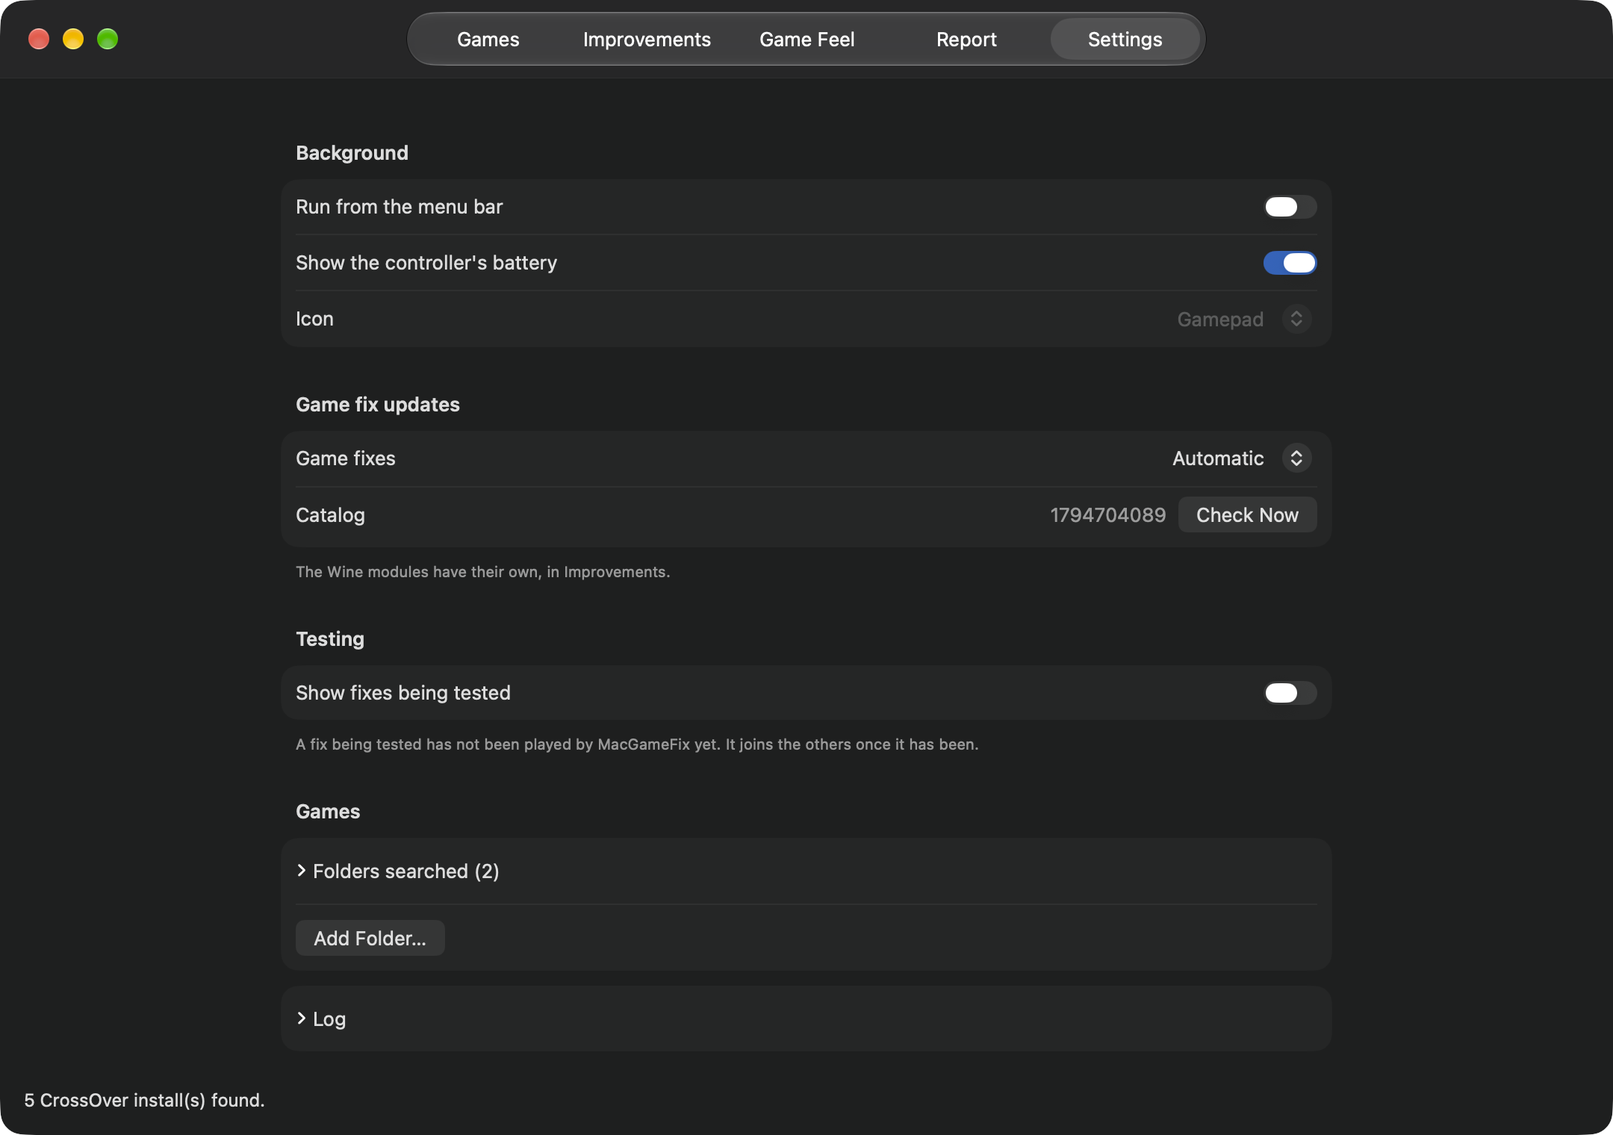
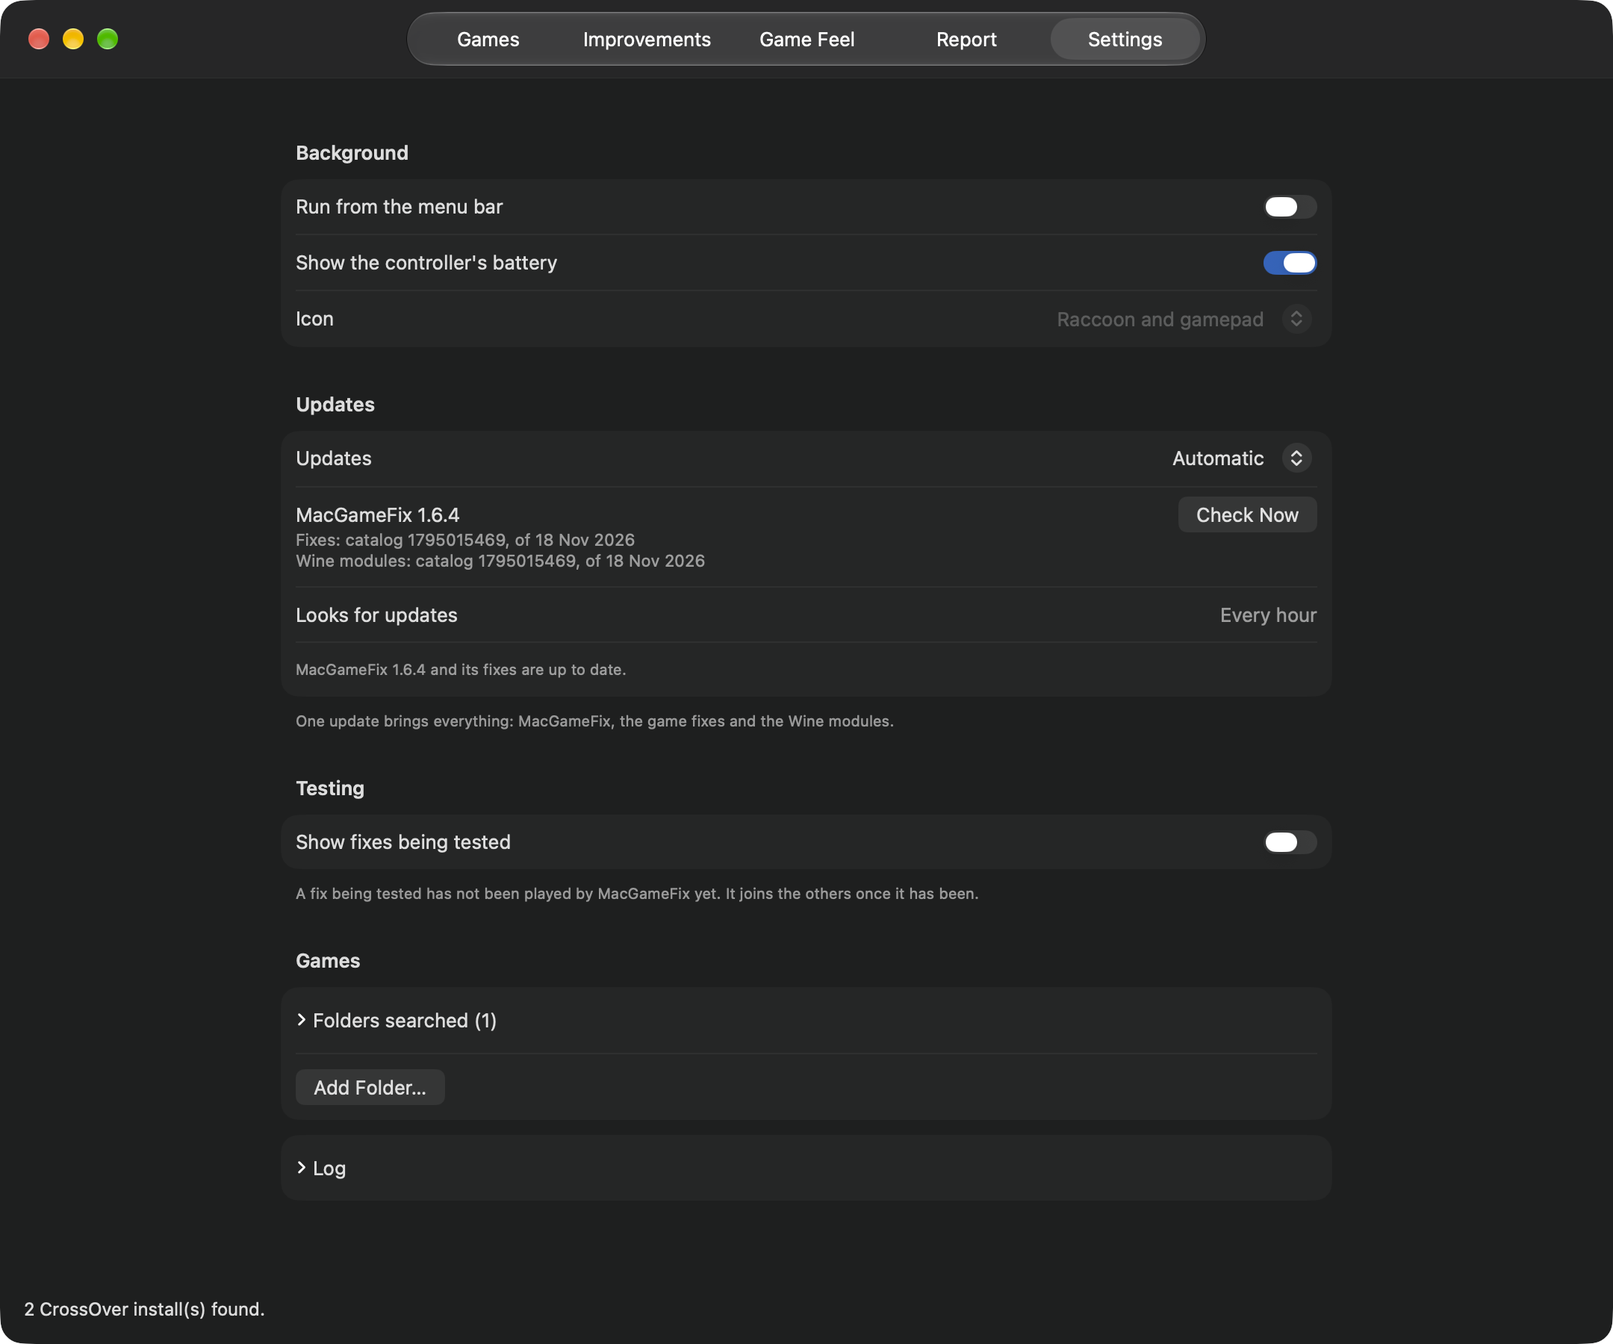
Settings › Updates names each catalog and how often it looks; Relaunch is the app's alone
Settings showed the two catalogs by their day only, and said how often
updates are looked for nowhere but in a tooltip.

- Each catalog in use has its line: "Fixes: catalog <number>, of <day>" and
  the same for the Wine modules. The number is what release notes and
  reports name a catalog by.
- "Looks for updates" says how often: "Every hour", "Never" with the choice
  at Off, and whatever updateMinutes in automatic.json says otherwise. It is
  read there, not chosen.
- The notice's button was decided inside the view. It is UpdateWords.step
  now, with the rule written down: Relaunch only for a new MacGameFix that
  is downloaded and checked with no catalog waiting, and always then; a
  catalog never has it. The behaviour is the one 1.6.4 has.
- Settings' own orange line uses the notice's words, so with a new
  MacGameFix downloaded both say it is ready and waits for Relaunch.
- --updates-report [--downloaded] prints the section's lines and the
  notice's line and button from the same code, for the tests: 14 new checks
  (202 in all). Breaking the rule on purpose (Relaunch with a catalog still
  waiting) fails "with new fixes waiting beside it, Update comes first".

Seen in the window, in copies with a home of their own: new fixes alone show
Update and no Relaunch; a stand-in 9.9.9 downloaded on Automatic shows
Relaunch. docs/images/settings.png is taken again: it still showed the
section as it was before 1.6.4.

diff --git a/app/MacGameFix.swift b/app/MacGameFix.swift
@@ -294,7 +294,7 @@ final class Model: ObservableObject {
     /// choice for the fixes and another for the modules may hold two answers: the more
     /// careful one is taken, so nothing starts arriving that somebody had turned off.
     var updateMode: UpdateMode {
-        if !settings.updates || !settings.modulesUpdates { return .off }
+        if settings.updatesOff { return .off }
         return settings.askFirst || settings.modulesAskFirst ? .ask : .automatic
     }
 
@@ -336,13 +336,21 @@ final class Model: ObservableObject {
             + (waitingModules == nil ? [] : Notes.highlights(waitingModulesNotes))
     }
 
-    /// The catalogs in use, by the day each was made: their versions are that moment.
-    var catalogDates: String {
-        func day(_ version: Int) -> String {
-            Date(timeIntervalSince1970: TimeInterval(version)).formatted(date: .abbreviated, time: .omitted)
-        }
-        return "Fixes of \(day(catalogVersion)), Wine modules of \(day(modulesVersion))"
+    /// The catalogs in use, a line each: its version and the day it was made.
+    var catalogLines: String {
+        "Fixes: \(UpdateWords.catalog(catalogVersion))\nWine modules: \(UpdateWords.catalog(modulesVersion))"
     }
+
+    /// What the notice's button does and what its line says (UpdateWords), for what
+    /// waits now. Settings says the same line.
+    var noticeStep: UpdateWords.Step {
+        UpdateWords.step(catalogsWait: waitingCatalog != nil || waitingModules != nil,
+                         appReady: appReady != nil, appCannot: appCannot != nil)
+    }
+    var noticeLine: String { UpdateWords.notice(noticeStep, parts: waitingParts, ready: appReady?.version) }
+
+    /// How often anything new is looked for, as Settings says it.
+    var looksEvery: String { updateMode == .off ? "never" : settings.updateWords }
 
     /// Everything at once, when the user asks: every newer catalog is taken, a newer
     /// MacGameFix is looked for, and one this copy can take is downloaded and checked.
@@ -1093,6 +1101,36 @@ struct ContentView: View {
     }
 }
 
+/// What Settings › Updates and the notice above the tabs say, in one place: the
+/// window and --updates-report, which the tests read, have the same words.
+enum UpdateWords {
+    /// A catalog in use: its version, which is the moment it was made, and that day.
+    static func catalog(_ version: Int) -> String {
+        guard version > 0 else { return "no catalog" }
+        let day = Date(timeIntervalSince1970: TimeInterval(version)).formatted(date: .abbreviated, time: .omitted)
+        return "catalog \(version), of \(day)"
+    }
+
+    /// What the notice's one button does. Relaunch belongs to a new MacGameFix alone:
+    /// it shows once that app is downloaded and checked and no catalog waits, and it
+    /// always shows then. New fixes and Wine modules never ask for one: they are in use
+    /// as soon as they are taken. With a catalog waiting beside the app, Update comes
+    /// first and takes it, and Relaunch follows. A new MacGameFix this copy cannot put
+    /// in its own place, with nothing else waiting, has no button but What's New.
+    enum Step: String { case relaunch = "Relaunch", update = "Update", nothing = "none" }
+
+    static func step(catalogsWait: Bool, appReady: Bool, appCannot: Bool) -> Step {
+        if appReady && !catalogsWait { return .relaunch }
+        return catalogsWait || !appCannot ? .update : .nothing
+    }
+
+    /// The notice's line: `parts` is what waits, `ready` the downloaded app's version.
+    static func notice(_ step: Step, parts: [String], ready: String?) -> String {
+        if step == .relaunch, let ready { return "MacGameFix \(ready) is ready. Relaunch to finish updating." }
+        return "An update is available: \(parts.joined(separator: ", "))."
+    }
+}
+
 /// What waits for the user, above every tab, as one update with one button: a newer
 /// MacGameFix, and the catalogs the agent was told to ask about first. On Automatic
 /// the catalogs are in place by the time anybody looks, and only a new MacGameFix
@@ -1101,31 +1139,32 @@ struct UpdateBanner: View {
     @ObservedObject var model: Model
 
     var body: some View {
-        let appOnly = model.waitingCatalog == nil && model.waitingModules == nil
+        let step = model.noticeStep
         VStack(alignment: .leading, spacing: 4) {
             HStack(spacing: 8) {
                 Image(systemName: "arrow.down.circle.fill").foregroundStyle(.tint)
                 if model.appWorking, let offer = model.appOffer {
                     ProgressView().controlSize(.small)
                     Text("Downloading MacGameFix \(offer.version)…")
-                } else if appOnly, let ready = model.appReady {
-                    Text("MacGameFix \(ready.version) is ready. Relaunch to finish updating.")
                 } else {
-                    Text("An update is available: \(model.waitingParts.joined(separator: ", ")).")
+                    Text(verbatim: model.noticeLine)
                 }
                 Spacer()
                 if let page = model.appOffer?.page {
                     Button("What's New") { NSWorkspace.shared.open(page) }
                 }
-                if appOnly, model.appReady != nil {
+                switch step {
+                case .relaunch:
                     Button("Relaunch") { model.installAppAndRelaunch() }
                         .buttonStyle(.borderedProminent).disabled(model.busy)
                         .help("Puts the new MacGameFix in this one's place and opens it.")
-                } else if !appOnly || model.appCannot == nil {
+                case .update:
                     Button("Update") { model.updateNow() }
                         .buttonStyle(.borderedProminent).disabled(model.busy || model.appWorking)
                         .help("Takes everything that is new: the game fixes, the Wine modules and MacGameFix itself, "
                               + "which is checked to be signed as this one is and starts when you choose Relaunch.")
+                case .nothing:
+                    EmptyView()
                 }
             }
             ForEach(model.whatsNew.prefix(6), id: \.self) { line in
@@ -2563,7 +2602,7 @@ struct SettingsView: View {
                 Picker("Updates", selection: Binding(get: { model.updateMode }, set: { model.setUpdateMode($0) })) {
                     ForEach(Model.UpdateMode.allCases) { Text($0.label).tag($0) }
                 }
-                .help("MacGameFix, its game fixes and its Wine modules, looked for once an hour. Automatic takes the "
+                .help("MacGameFix, its game fixes and its Wine modules, looked for \(model.settings.updateWords). Automatic takes the "
                       + "fixes and the modules as they come and downloads a new MacGameFix, which starts when you "
                       + "choose Relaunch. “Ask first” tells you, and takes nothing until you choose Update. Off does "
                       + "not look.")
@@ -2572,11 +2611,17 @@ struct SettingsView: View {
                         .help("Looks now, and takes what is new: the fixes, the Wine modules and MacGameFix itself.")
                 } label: {
                     Text(verbatim: "MacGameFix \(Catalog.appVersion)")
-                    Text(model.catalogDates)
+                    Text(verbatim: model.catalogLines)
                 }
+                .help("The MacGameFix that is running and the two catalogs in use. A catalog's version is the moment "
+                      + "it was made: the number a release's notes and a report name it by.")
+                LabeledContent("Looks for updates") {
+                    Text(verbatim: model.looksEvery.prefix(1).uppercased() + model.looksEvery.dropFirst())
+                }
+                .help("How often MacGameFix asks whether anything is new: the app, the fixes and the Wine modules are "
+                      + "asked about together. What is found is taken or told as the choice above says.")
                 if model.hasBanner {
-                    Text("An update is available: \(model.waitingParts.joined(separator: ", ")).")
-                        .font(.caption).foregroundStyle(.orange)
+                    Text(verbatim: model.noticeLine).font(.caption).foregroundStyle(.orange)
                 } else if !model.updateLine.isEmpty {
                     Text(model.updateLine).font(.caption).foregroundStyle(.secondary)
                 }
@@ -2691,6 +2736,7 @@ struct MacGameFixApp: App {
 /// starts and which lives in the menu bar; and, for the tests and the release,
 /// --agent-once, --menu-report, --games-report, --engine-report,
 /// --engine-install, --engine-remove, --update-from, --app-update-check, --app-update,
+/// --updates-report,
 /// --make-catalog, --new-signing-key, and the reports' --probe-report, --fix-report,
 /// --fix-works-url and --works-without-url, which do one thing and exit.
 @main
@@ -2720,6 +2766,41 @@ enum Entry {
             }
             if let version = state.waitingApp { print("app | Update to MacGameFix \(version)…") }
             exit(0)
+        }
+        if args.contains("--updates-report") {
+            // What Settings › Updates shows, and what the notice above the tabs says and
+            // offers for what waits. With --downloaded a newer MacGameFix is downloaded and
+            // checked first, as Update does and as Automatic has done by the time anybody
+            // looks; nothing is put in this app's place.
+            let downloaded = args.contains("--downloaded")
+            wait {
+                let settings = AutoSettings.load(), state = AgentState.load()
+                print("app | MacGameFix \(Catalog.appVersion)")
+                print("fixes | \(UpdateWords.catalog(Catalog.active().manifest?.version ?? 0))")
+                print("modules | \(UpdateWords.catalog(Catalog.active(.modules).manifest?.version ?? 0))")
+                print("looks | \(settings.updatesOff ? "never" : settings.updateWords)")
+                let offer = settings.appUpdates ? try? await AppUpdate.check() : nil
+                let cannot = AppUpdate.whyNot()
+                var ready: String?
+                if downloaded, let offer, cannot == nil {
+                    do {
+                        let checked = try await AppUpdate.prepare(offer)
+                        ready = checked.version
+                        try? FileManager.default.removeItem(at: checked.staging)
+                    } catch {
+                        print("refused | \(error.localizedDescription)")
+                    }
+                }
+                let parts = (offer.map { ["MacGameFix \($0.version)"] } ?? [])
+                    + (state.waiting != nil ? ["new fixes"] : []) + (state.waitingModules != nil ? ["new Wine modules"] : [])
+                guard !parts.isEmpty else { print("notice | none"); return 0 }
+                let step = UpdateWords.step(catalogsWait: state.waiting != nil || state.waitingModules != nil,
+                                            appReady: ready != nil, appCannot: cannot != nil)
+                print("notice | \(UpdateWords.notice(step, parts: parts, ready: ready))")
+                print("button | \(step.rawValue)")
+                if offer != nil, let cannot { print("cannot | \(cannot)") }
+                return 0
+            }
         }
         if args.contains("--app-update-check") || args.contains("--app-update") {
             // A newer MacGameFix, asked about; and with --app-update taken, checked and

diff --git a/app/Automation.swift b/app/Automation.swift
@@ -69,11 +69,22 @@ struct AutoSettings: Codable {
     /// never installed without the user asking.
     var appUpdates = true
     /// How often the releases are asked, in minutes, for the two catalogs and the app
-    /// alike: 10, 60 or 1440 in Settings. One pass asks GitHub's API once (Updater.release),
-    /// and GitHub gives an address without an account 60 answers an hour, so nothing
-    /// under ten minutes is taken.
+    /// alike. Settings says it and has no control for it: it is changed in this file.
+    /// One pass asks GitHub's API once (Updater.release), and GitHub gives an address
+    /// without an account 60 answers an hour, so nothing under ten minutes is taken.
     var updateMinutes = 60
     var updateEvery: TimeInterval { TimeInterval(max(10, updateMinutes) * 60) }
+    /// The same in words, as Settings says it: "every hour", "every 10 minutes", "once a day".
+    var updateWords: String {
+        let minutes = max(10, updateMinutes)
+        if minutes == 60 { return "every hour" }
+        if minutes == 1440 { return "once a day" }
+        if minutes % 1440 == 0 { return "every \(minutes / 1440) days" }
+        if minutes % 60 == 0 { return "every \(minutes / 60) hours" }
+        return "every \(minutes) minutes"
+    }
+    /// Nothing is looked for: either catalog's switch off is the one choice at Off.
+    var updatesOff: Bool { !updates || !modulesUpdates }
     /// The CrossOver folders the user put the Wine modules into, which the agent
     /// keeps them in, and those the user took them out of, which it leaves alone.
     var modulesKept: [String] = []

diff --git a/docs/ui-inventory.md b/docs/ui-inventory.md
@@ -282,17 +282,21 @@ Below the rows:
 
 **"Updates"**: one choice and one check for everything a release brings (MacGameFix itself, the game fixes, the Wine modules).
 - Picker **"Updates"**: "Automatic" / "Ask first" / "Off" (default Automatic).
-  - Tooltip: "MacGameFix, its game fixes and its Wine modules, looked for once an hour. Automatic takes the fixes and the modules as they come and downloads a new MacGameFix, which starts when you choose Relaunch. “Ask first” tells you, and takes nothing until you choose Update. Off does not look."
+  - Tooltip: "MacGameFix, its game fixes and its Wine modules, looked for <how often, as below>. Automatic takes the fixes and the modules as they come and downloads a new MacGameFix, which starts when you choose Relaunch. “Ask first” tells you, and takes nothing until you choose Update. Off does not look."
   - A settings file from an older MacGameFix may hold one choice for the fixes and another for the modules: the more careful of the two becomes the one choice, and is written back, when the window opens.
-- **"MacGameFix <version>"**, with "Fixes of <date>, Wine modules of <date>" below it (each catalog's version is the moment it was built), and **"Check Now"**.
+- **"MacGameFix <version>"**, with two lines below it, "Fixes: catalog <number>, of <date>" and "Wine modules: catalog <number>, of <date>" (a catalog's version is the moment it was built, and the number is how release notes and reports name it), and **"Check Now"**.
+  - Tooltip: "The MacGameFix that is running and the two catalogs in use. A catalog's version is the moment it was made: the number a release's notes and a report name it by."
   - "Check Now" looks now and takes what is new: both catalogs are installed whatever the choice says, and a newer MacGameFix is downloaded and checked.
-- One line below: "An update is available: <what>." in orange while something waits, otherwise what the last check said ("Everything is up to date.").
+- **"Looks for updates"**: "Every hour", or "Never" with the choice at Off. It is read, not chosen: the interval is `updateMinutes` in `automatic.json` (60; nothing under 10 is taken), and another value shows as "Every 10 minutes", "Every 2 hours", "Once a day".
+  - Tooltip: "How often MacGameFix asks whether anything is new: the app, the fixes and the Wine modules are asked about together. What is found is taken or told as the choice above says."
+- One line below, in orange while something waits, with the notice's own words ("An update is available: <what>." or "MacGameFix <version> is ready. Relaunch to finish updating."), otherwise what the last check said ("Everything is up to date.").
 - Footer: "One update brings everything: MacGameFix, the game fixes and the Wine modules."
 
 **The notice above the tabs** (`UpdateBanner`), in every tab, only while something waits:
 - "An update is available: <MacGameFix <version>, new fixes, new Wine modules>." with **"Update"**: takes the catalogs that wait and downloads the new MacGameFix.
 - "Downloading MacGameFix <version>…" while it comes.
 - "MacGameFix <version> is ready. Relaunch to finish updating." with **"Relaunch"**: puts the new app in this one's place, starts the menu bar item from it and opens it.
+- The one button is **"Relaunch"** only for a new MacGameFix, downloaded and checked, with no catalog waiting, and always then. New fixes or Wine modules never have it: they are in use once taken. With a catalog waiting beside a downloaded MacGameFix the button is "Update" first, and "Relaunch" follows. (`UpdateWords.step`; `--updates-report [--downloaded]` prints the line and the button for the tests.)
 - **"What's New"** opens the release's page, when a new MacGameFix is part of it.
 - Below, up to six short lines of what the update brings, each with a bullet: a new MacGameFix's from its release notes, a catalog's from its own notes.
 - A copy that cannot replace itself says why in small print ("… Take the new MacGameFix from its page: What's New."), and a failure shows in orange.
@@ -510,7 +514,7 @@ The "Control-Command-F" in the Game Mode footer is advice for full screen in gam
 **Command-line flags**, all in one binary (2264-2514):
 - `--agent`: the menu bar agent
 - `--review`: opens the window with only the games to review
-- One-off commands that print or write and then exit: `--agent-once`, `--menu-report`, `--pad-write`, `--pad-export <file>`, `--pad-report`, `--games-report` (named in the README), `--game-mode-keep|--game-mode-remove|--game-mode-report`, `--engine-report`, `--pad-game-report <appid> <path>`, `--probe-report <appid> <path> [symptom]`, `--probe-games`, `--pad-share-url <appid>`, `--pad-vibrates-url <appid>`, `--fix-report <game name> <path> [works|without]`, `--fix-works-url <game name>`, `--works-without-url <game name>`, `--engine-install|--engine-remove <root>`, `--update-from <dir> [--pubkey --kind modules]`, `--new-signing-key <file>`, `--make-catalog <out> --key <file> [--from]`
+- One-off commands that print or write and then exit: `--agent-once`, `--menu-report`, `--pad-write`, `--pad-export <file>`, `--pad-report`, `--games-report` (named in the README), `--game-mode-keep|--game-mode-remove|--game-mode-report`, `--engine-report`, `--pad-game-report <appid> <path>`, `--probe-report <appid> <path> [symptom]`, `--probe-games`, `--pad-share-url <appid>`, `--pad-vibrates-url <appid>`, `--fix-report <game name> <path> [works|without]`, `--fix-works-url <game name>`, `--works-without-url <game name>`, `--engine-install|--engine-remove <root>`, `--update-from <dir> [--pubkey --kind modules]`, `--updates-report [--downloaded]`, `--new-signing-key <file>`, `--make-catalog <out> --key <file> [--from]`
   - `--fix-report`, `--fix-works-url` and `--works-without-url` (2404-2433) find the game in Games by its catalog name and ask its installer, as the window does. Each refuses as its button would, printing "<game>: <state>; <It Works…|Works Without the Fix…> needs <Installed|Not installed>" and exiting 1, and writes the report or prints the form's link otherwise. The rule is the buttons' own (`FixReport.target`). They have no window: `MACGAMEFIX_SESSION_LOG`, a file standing for Settings › Log, gives the game's blocks to the report and the log field as the window's log would (2400-2403); without it, the report's Settings › Log section says none. The tests use it.
 
 **Background agent** (`--agent`)

diff --git a/docs/images/README.md b/docs/images/README.md
@@ -27,6 +27,9 @@ is the tab, then the state or sheet; pages link to them by name, so a name stays
 The two of a game's instructions were taken later the same day, from the app as published at c3f1df6 (catalog
 1794705165), after #77 put the whole line first.
 
+`settings.png` was taken again on 2026-11-18 from a build of the branch that added the catalogs' numbers and
+"Looks for updates" to Settings › Updates (its catalogs are that build's own, 1795015469), in an empty home.
+
 Not pictured: the Not fixed filter, and the two questions asked before an improvement goes into every CrossOver
 or into a CrossOver app. In `improvements-fans.png` the helper reads as older than the app's, which is how that
 build told every new build apart; since #78 it compares versions, and that line shows only for a real update.
